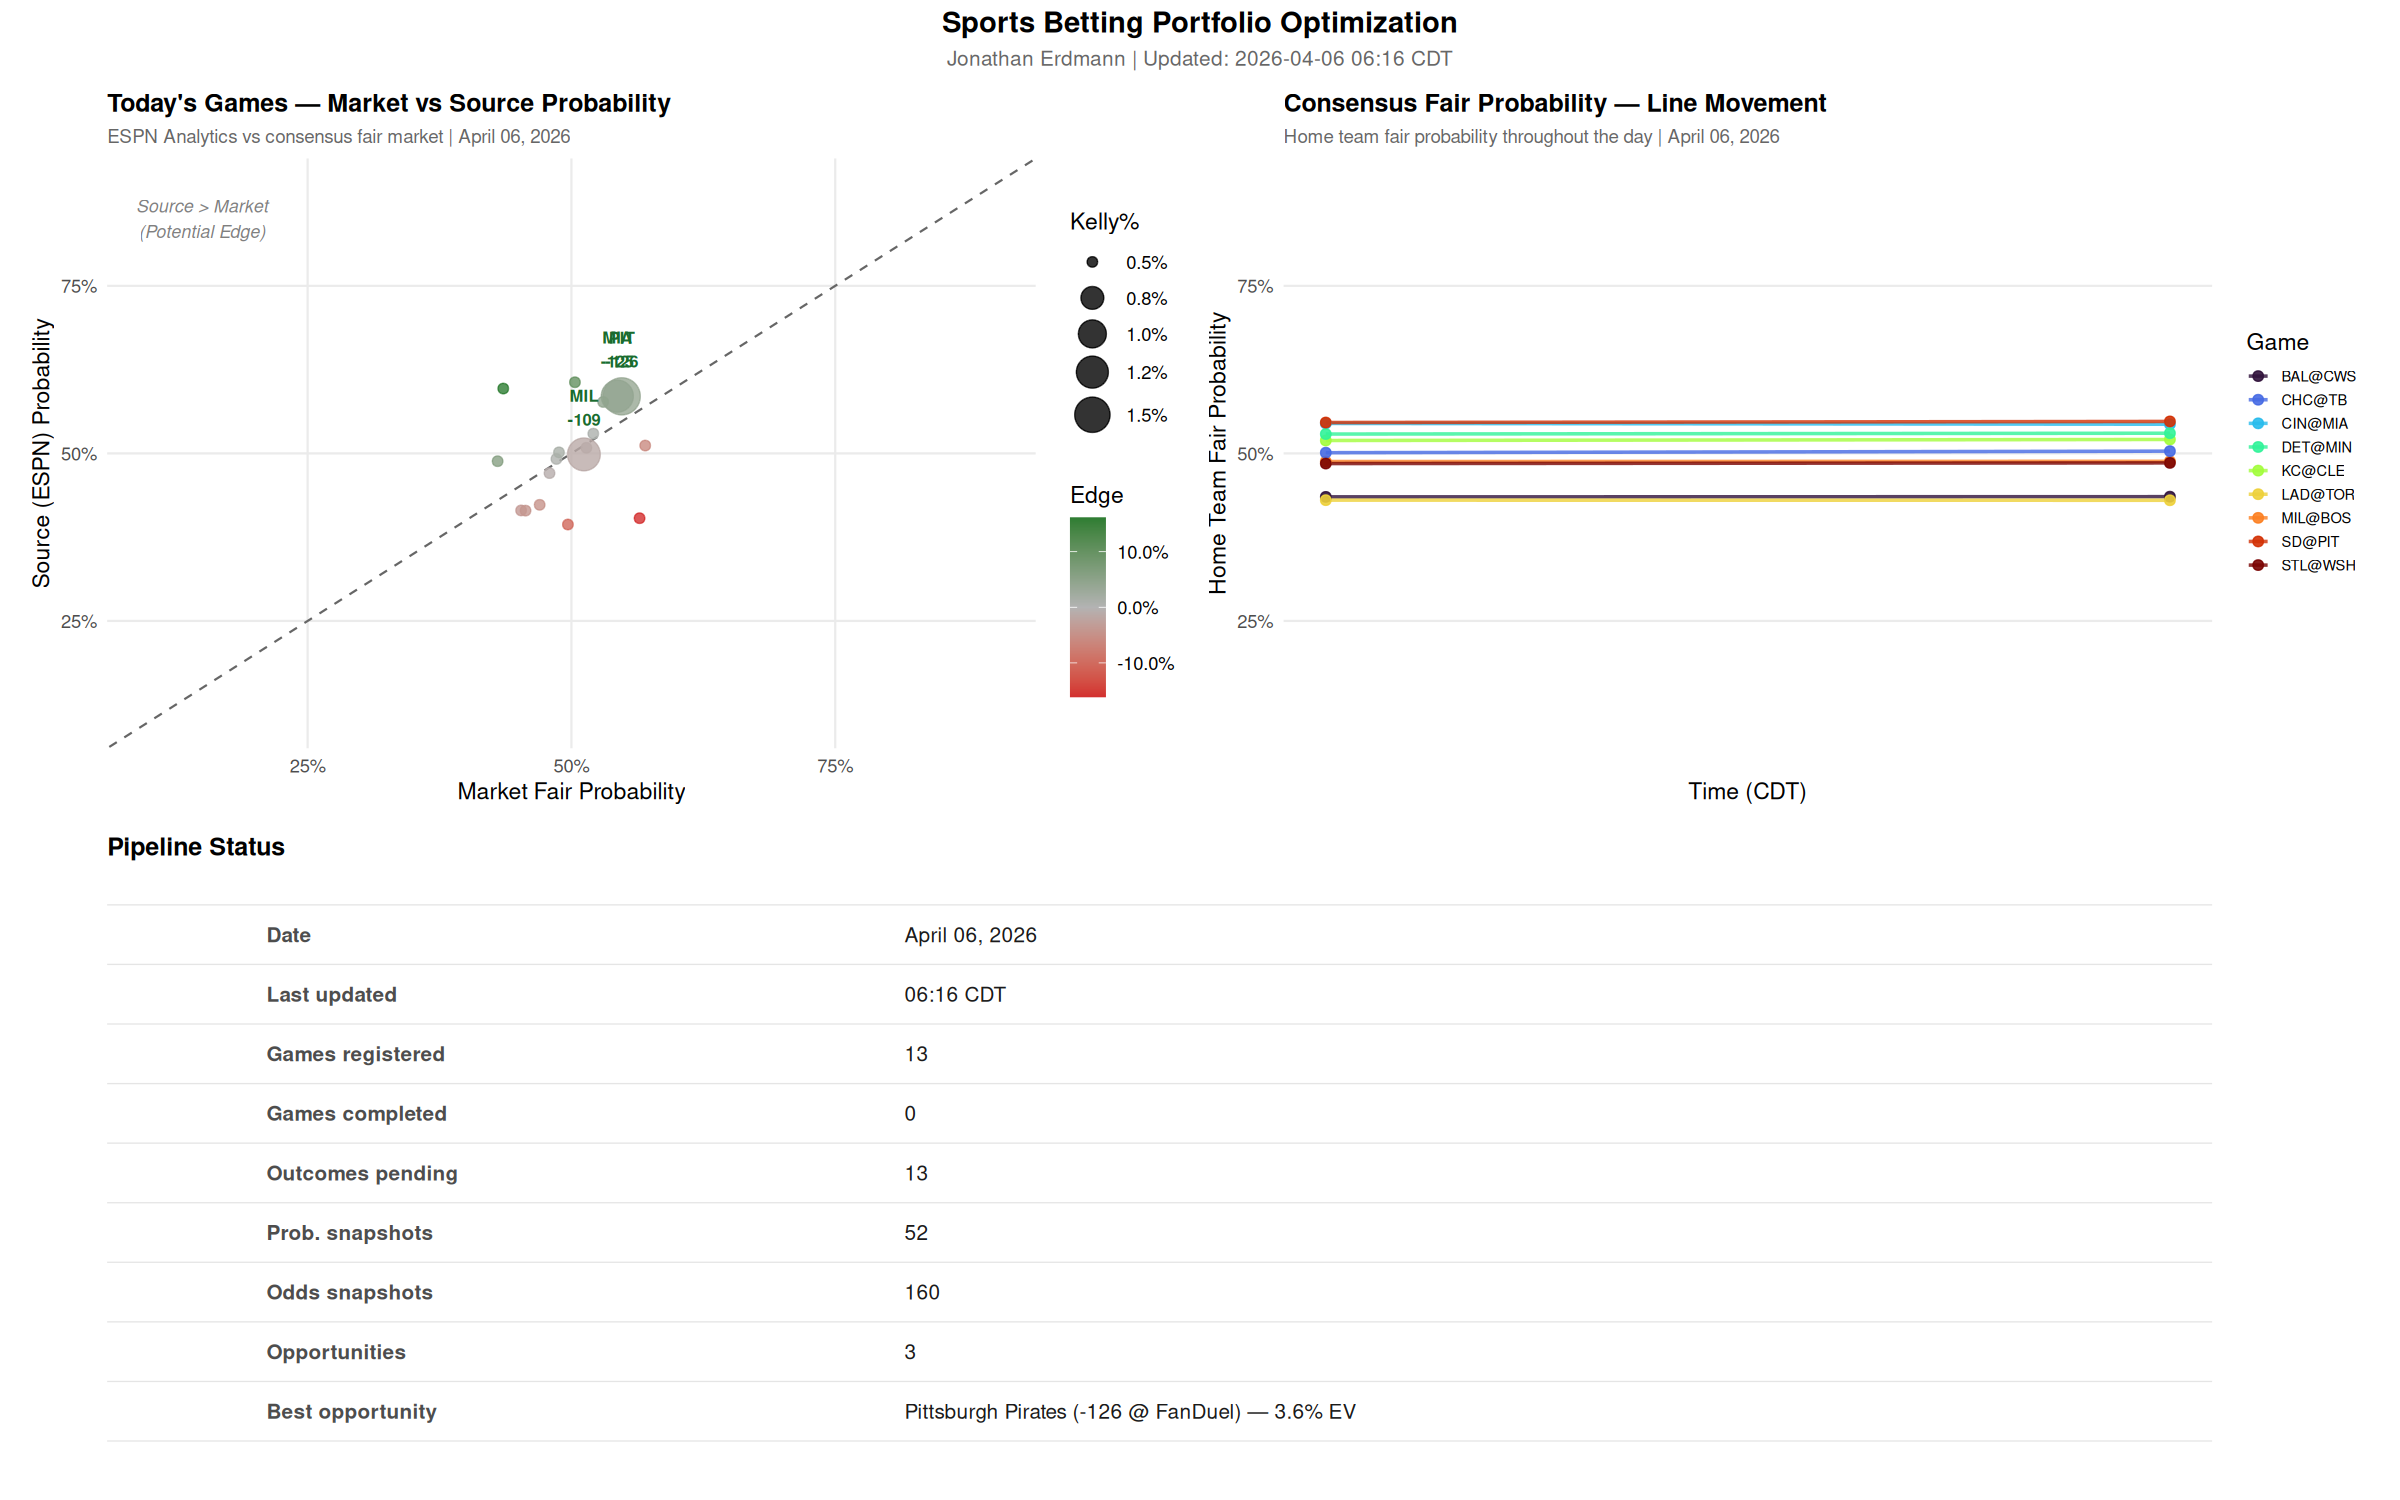
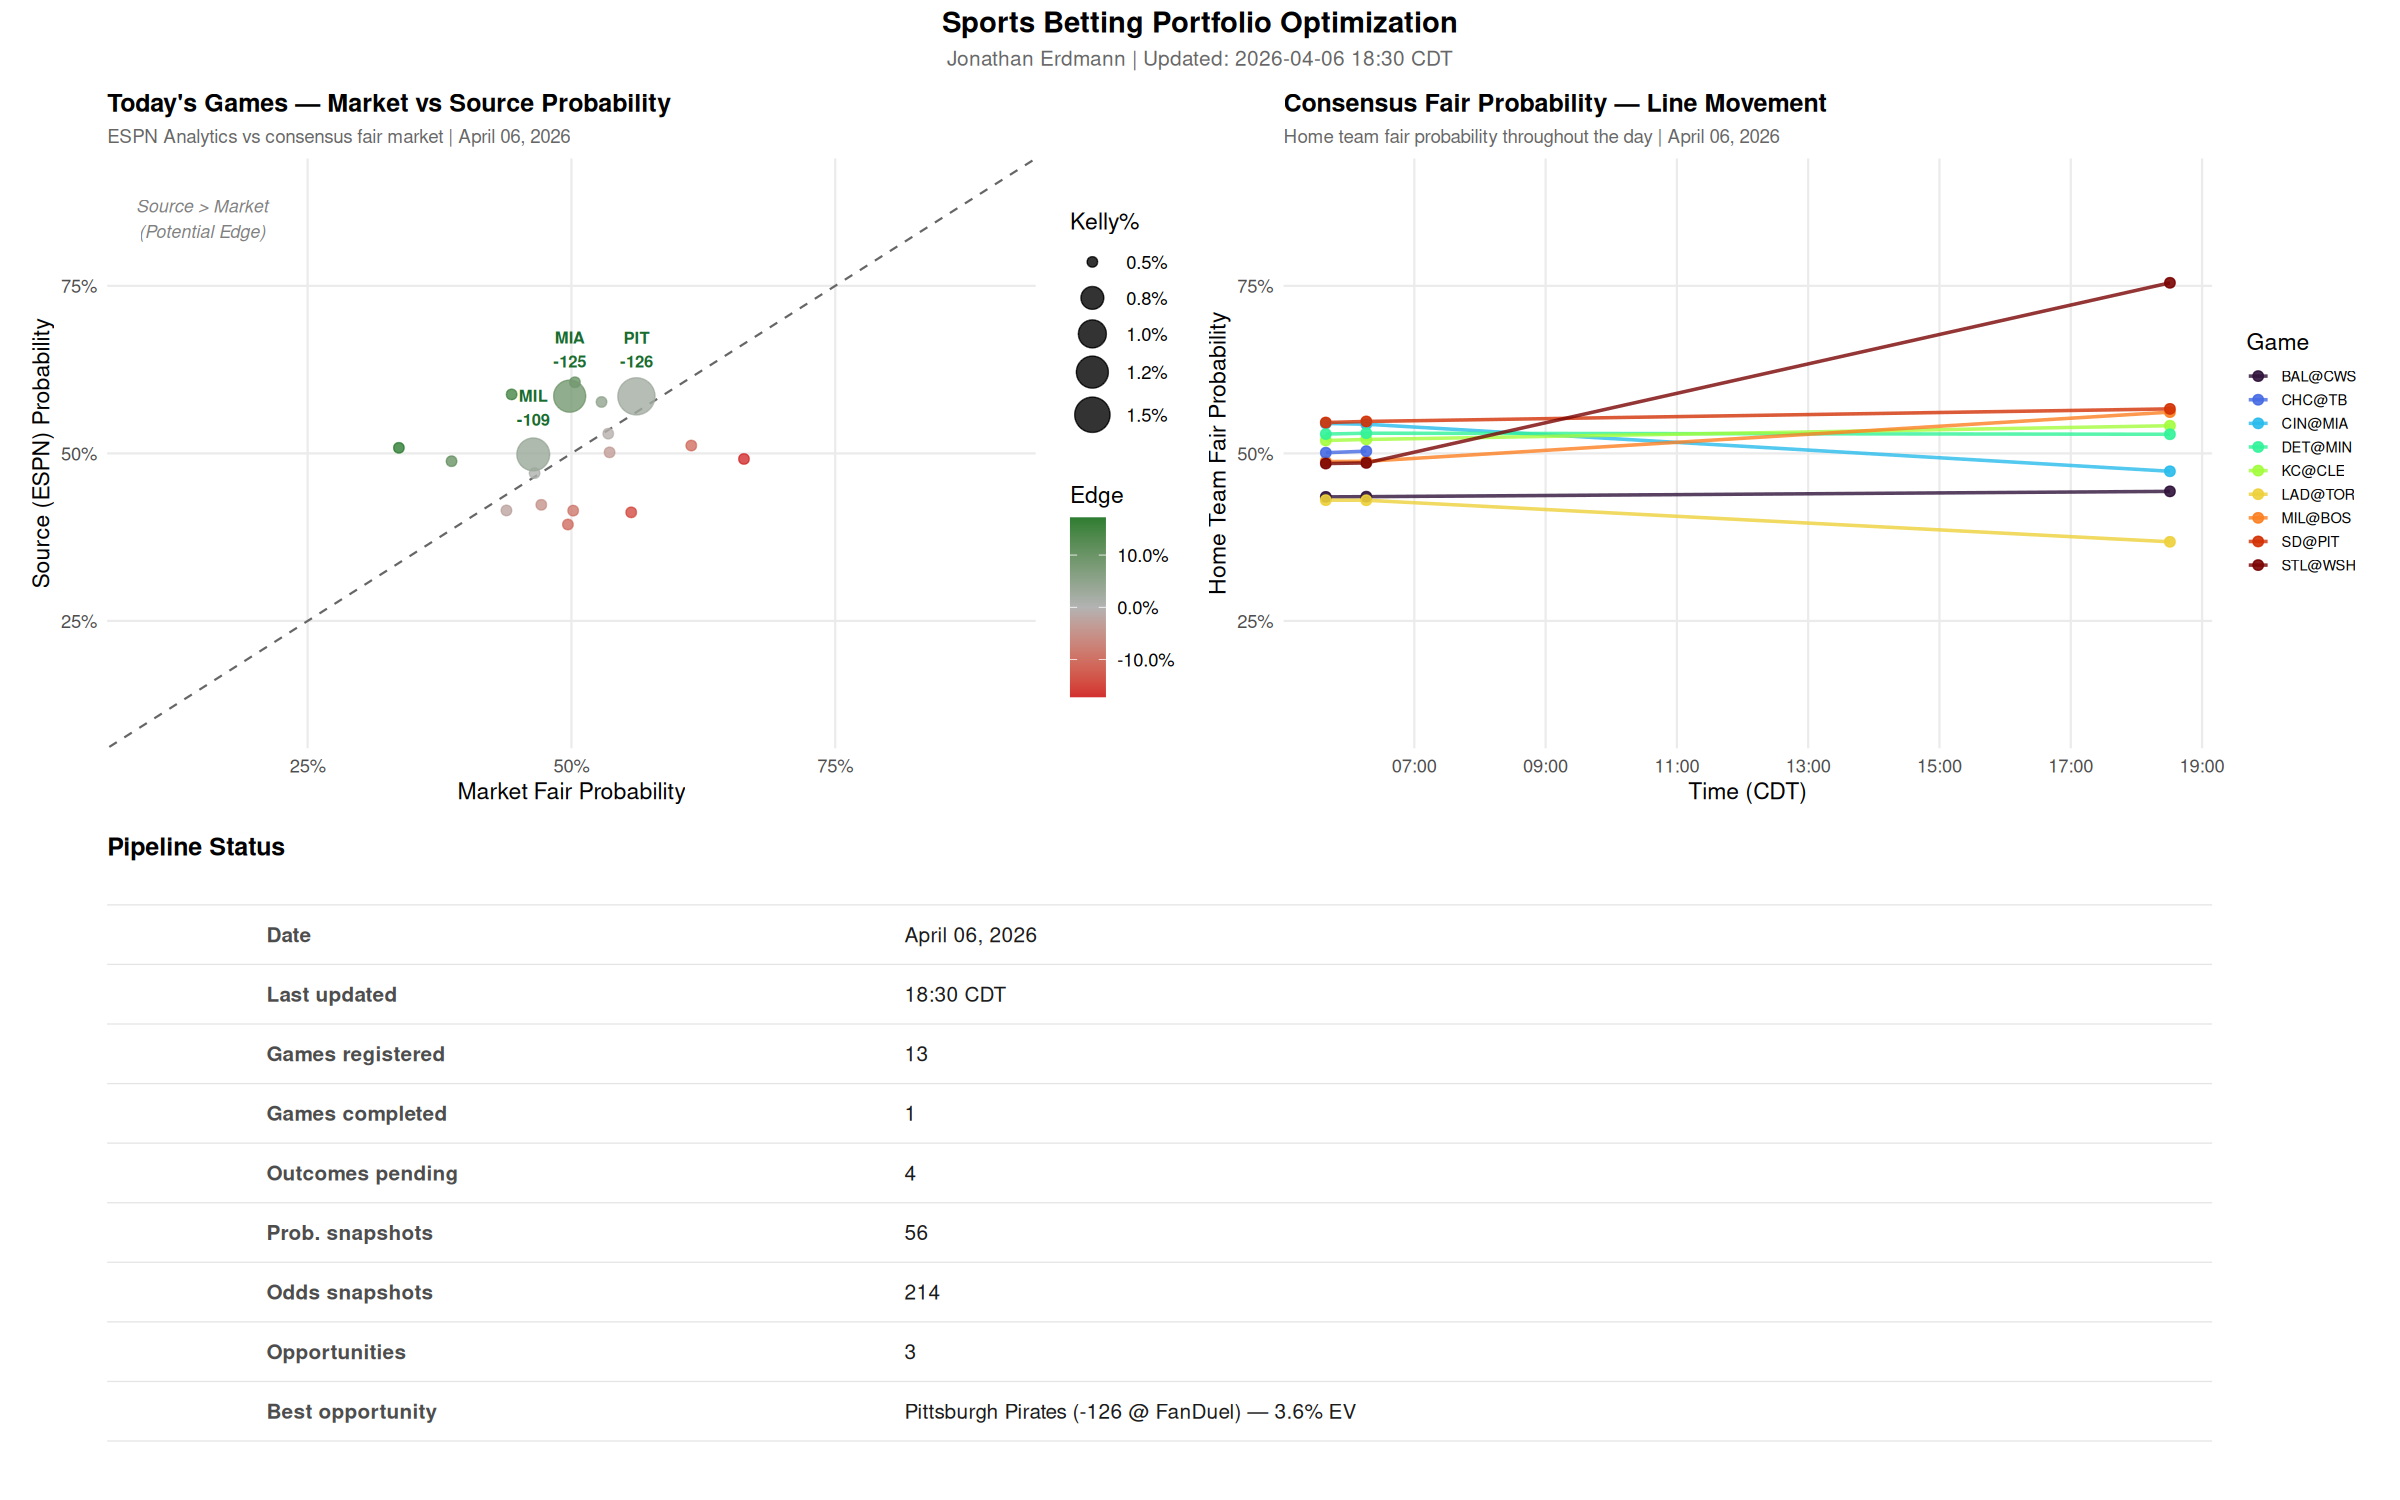
Update dashboard: 2026-04-06 18:30

diff --git a/projects/portfolio-optimization/dashboard.md b/projects/portfolio-optimization/dashboard.md
@@ -6,7 +6,7 @@ permalink: /projects/portfolio-optimization/dashboard/
 
 ## Daily Pipeline Dashboard
 
-**Last updated:** April 06, 2026 06:16 CDT
+**Last updated:** April 06, 2026 18:30 CDT
 
 ---
 
